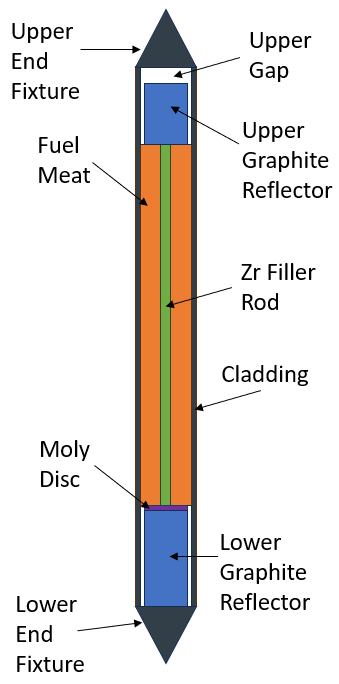
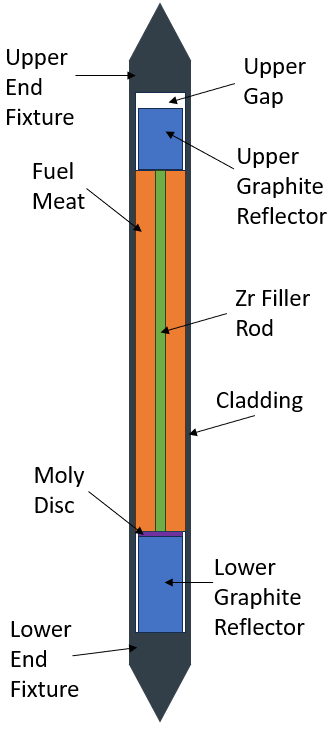
finished cleaning up the reactor definition

diff --git a/progression_problems/TRIGA/NETL/default_geometries.py b/progression_problems/TRIGA/NETL/default_geometries.py
@@ -1,5 +1,7 @@
 from __future__ import annotations
 
+from math import cos, radians, sin
+
 from coreforge.geometry_elements.triga.netl import (CentralThimble, SourceHolder, FuelFollowerControlRod,
                                                     TransientRod, GridPlate, BeamPort, Pool, RSRCavity,
                                                     Reflector, Shroud, Core, Reactor)
@@ -9,6 +11,8 @@ from progression_problems.TRIGA.default_materials import DefaultMaterials as TRI
 from progression_problems.TRIGA.NETL.default_materials import DefaultMaterials as NETLDefaultMaterials
 from progression_problems.constants import CM_PER_INCH
 
+sind = lambda d: sin(radians(d))
+cosd = lambda d: cos(radians(d))
 
 class DefaultGeometries:
     """ Dataclass containing default geometries for NETL reactor models
@@ -22,16 +26,16 @@ class DefaultGeometries:
            (NETL-FF-BP1/5-128-cca).", Nov. 2022. https://doi.org/10.2172/1898256
     """
 
-    UPPER_GRID_PLATE_DISTANCE_FROM_CORE_CENTERLINE = 12.75  * CM_PER_INCH  # Ref. [2]_ pg. 55
-    LOWER_GRID_PLATE_DISTANCE_FROM_CORE_CENTERLINE = 13.06 * CM_PER_INCH   # Ref. [2]_ pg. 55
-    TRANSIENT_ROD_FULLY_INSERTED_POSITION          = -73.0250              # Ref. [2]_ pg. 58
-    FFCR_FULLY_INSERTED_POSITION                   = -76.5180              # Ref. [2]_ pg. 58
-    TRANSIENT_ROD_MAX_WITHDRAWAL_DISTANCE          = 15.0  * CM_PER_INCH   # Ref. [1]_ pg. 4-10
-    FFCR_MAX_WITHDRAWAL_DISTANCE                   = 15.0  * CM_PER_INCH   # Ref. [1]_ pg. 4-10
-    TRANSIENT_ROD_FULLY_WITHDRAWN_POSITION         = TRANSIENT_ROD_FULLY_INSERTED_POSITION + \
-                                                     TRANSIENT_ROD_MAX_WITHDRAWAL_DISTANCE
-    FFCR_FULLY_WITHDRAWN_POSITION                  = FFCR_FULLY_INSERTED_POSITION + \
-                                                     FFCR_MAX_WITHDRAWAL_DISTANCE
+    UPPER_GRID_PLATE_TOP_TO_CORE_CENTERLINE_DISTANCE = 12.75  * CM_PER_INCH  # Ref. [2]_ pg. 55
+    LOWER_GRID_PLATE_TOP_TO_CORE_CENTERLINE_DISTANCE = 13.06 * CM_PER_INCH   # Ref. [2]_ pg. 55
+    TRANSIENT_ROD_FULLY_INSERTED_POSITION            = -73.0250              # Ref. [2]_ pg. 58
+    FFCR_FULLY_INSERTED_POSITION                     = -76.5180              # Ref. [2]_ pg. 58
+    TRANSIENT_ROD_MAX_WITHDRAWAL_DISTANCE            = 15.0  * CM_PER_INCH   # Ref. [1]_ pg. 4-10
+    FFCR_MAX_WITHDRAWAL_DISTANCE                     = 15.0  * CM_PER_INCH   # Ref. [1]_ pg. 4-10
+    TRANSIENT_ROD_FULLY_WITHDRAWN_POSITION           = TRANSIENT_ROD_FULLY_INSERTED_POSITION + \
+                                                       TRANSIENT_ROD_MAX_WITHDRAWAL_DISTANCE
+    FFCR_FULLY_WITHDRAWN_POSITION                    = FFCR_FULLY_INSERTED_POSITION + \
+                                                       FFCR_MAX_WITHDRAWAL_DISTANCE
 
     @staticmethod
     def central_thimble() -> CentralThimble:
@@ -67,15 +71,12 @@ class DefaultGeometries:
         SourceHolder
             Default NETL TRIGA source holder.
         """
-        upper_plate = DefaultGeometries.upper_grid_plate()
 
-        # Use published grid offsets directly to avoid recursive calls into reactor/core builders
-        upper_grid_plate_distance  = DefaultGeometries.UPPER_GRID_PLATE_DISTANCE_FROM_CORE_CENTERLINE
-        lower_grid_plate_distance  = DefaultGeometries.LOWER_GRID_PLATE_DISTANCE_FROM_CORE_CENTERLINE
+        upper_grid_plate_distance  = DefaultGeometries.UPPER_GRID_PLATE_TOP_TO_CORE_CENTERLINE_DISTANCE
+        lower_grid_plate_distance  = DefaultGeometries.LOWER_GRID_PLATE_TOP_TO_CORE_CENTERLINE_DISTANCE
         distance_from_lower_plate  = 1.1934  # Ref. [2]_ pg. 55
 
-        length = (upper_grid_plate_distance + lower_grid_plate_distance -
-                  distance_from_lower_plate + upper_plate.thickness)
+        length = (upper_grid_plate_distance + lower_grid_plate_distance - distance_from_lower_plate)
 
         # Set such that the cavity center is at core centerline Ref. [2]_ pg. 55
         axial_offset = -distance_from_lower_plate
@@ -323,7 +324,6 @@ class DefaultGeometries:
         """
         return Shroud(
             thickness                = 0.1875 * CM_PER_INCH,                      # Ref. [2]_ pg. 54 & 55
-            height                   = 23.13 * CM_PER_INCH,                       # Ref. [2]_ pg. 55
             primary_hex_inner_radius = 10.21875 * CM_PER_INCH,                    # Ref. [2]_ pg. 55
             rotated_hex_inner_radius = 10.75 * CM_PER_INCH,                       # Ref. [2]_ pg. 54
             material                 = Material(NETLDefaultMaterials.aluminum()), # Ref. [2]_ pg. 48
@@ -374,7 +374,7 @@ class DefaultGeometries:
         return BeamPort(
             length        = DefaultGeometries.pool().radius * 2.0,
             inner_radius  = 6.065 * 0.5 * CM_PER_INCH,                  # Ref. [2]_ Figures 4 & 5
-            outer_radius  = 6.625 * CM_PER_INCH,                        # Ref. [2]_ Figures 4 & 5
+            outer_radius  = 6.625 * 0.5 * CM_PER_INCH,                  # Ref. [2]_ Figures 4 & 5
             tube_material = Material(NETLDefaultMaterials.aluminum()),  # Ref. [2]_ pg. 48
             fill_material = Material(NETLDefaultMaterials.air()),       # Ref. [2]_ pg. 48
             name = "beam_port",
@@ -452,55 +452,53 @@ class DefaultGeometries:
         Reactor
             Default NETL TRIGA reactor geometry.
         """
+
+        bp_length       = DefaultGeometries.beam_port().length
+        bp_axial_offset = -6.985
+
         return Reactor(
+            name                        = "reactor",
             pool                        = DefaultGeometries.pool(),
             shroud                      = DefaultGeometries.shroud(),
             rotary_specimen_rack_cavity = DefaultGeometries.rsr_cavity(),
             core                        = DefaultGeometries.core(),
-            name                        = "reactor",
-            reflector = Reactor.Reflector(
-                geometry = DefaultGeometries.reflector(),
-                core_centerline_offset = 0.565 * CM_PER_INCH  # Ref. [2]_ pg. 55
-            ),
+            transient_rod_position      = DefaultGeometries.TRANSIENT_ROD_FULLY_INSERTED_POSITION,
+            regulating_rod_position     = DefaultGeometries.FFCR_FULLY_INSERTED_POSITION,
+            shim_1_rod_position         = DefaultGeometries.FFCR_FULLY_INSERTED_POSITION,
+            shim_2_rod_position         = DefaultGeometries.FFCR_FULLY_INSERTED_POSITION,
+
+            # Beam port specifications from Ref. [1]_ page 4-24 & Ref. [2]_ pages 48, 56, 59
+            beam_port_1_5               = Reactor.BeamPort(geometry    = DefaultGeometries.beam_port(),
+                                                           rotation    = 90.0,
+                                                           translation = (35.2425,
+                                                                          0.0,
+                                                                          bp_axial_offset)),
+            beam_port_2                 = Reactor.BeamPort(geometry    = DefaultGeometries.beam_port(),
+                                                           rotation    = 150.0,
+                                                           translation = ( 6.222 + cosd(150.0)*bp_length*0.5,
+                                                                          35.255 + sind(150.0)*bp_length*0.5,
+                                                                          bp_axial_offset)),
+            beam_port_3                 = Reactor.BeamPort(geometry    = DefaultGeometries.beam_port(),
+                                                           rotation    = 0.0,
+                                                           translation = (-bp_length*0.5 - 26.43188,
+                                                                          0.0,
+                                                                          bp_axial_offset)),
+            beam_port_4                 = Reactor.BeamPort(geometry    = DefaultGeometries.beam_port(),
+                                                           rotation    = 60.0,
+                                                           translation = (-13.216 - cosd(60.0)*bp_length*0.5,
+                                                                          -22.871 - sind(60.0)*bp_length*0.5,
+                                                                          bp_axial_offset)),
+
+            reflector = Reactor.Reflector(geometry = DefaultGeometries.reflector(),
+                                          core_centerline_offset = 0.565 * CM_PER_INCH),  # Ref. [2]_ pg. 55
+
             upper_grid_plate = Reactor.GridPlate(
                 geometry = DefaultGeometries.upper_grid_plate(),
-                distance_from_core_centerline = DefaultGeometries.UPPER_GRID_PLATE_DISTANCE_FROM_CORE_CENTERLINE
+                top_to_core_centerline_distance = DefaultGeometries.UPPER_GRID_PLATE_TOP_TO_CORE_CENTERLINE_DISTANCE
             ),
+
             lower_grid_plate = Reactor.GridPlate(
                 geometry = DefaultGeometries.lower_grid_plate(),
-                distance_from_core_centerline = DefaultGeometries.LOWER_GRID_PLATE_DISTANCE_FROM_CORE_CENTERLINE
-            ),
-            transient_rod_position = DefaultGeometries.TRANSIENT_ROD_FULLY_INSERTED_POSITION,
-            regulating_rod_position = DefaultGeometries.FFCR_FULLY_INSERTED_POSITION,
-            shim_1_rod_position = DefaultGeometries.FFCR_FULLY_INSERTED_POSITION,
-            shim_2_rod_position = DefaultGeometries.FFCR_FULLY_INSERTED_POSITION,
-            # Beam port 1/5 specifications from Ref. [2]_ pages 48, 56, 59
-            beam_port_1_5 = Reactor.BeamPort(
-                geometry    = DefaultGeometries.beam_port(),
-                translation = (35.2425, 0.0, -6.985),
-            ),
-            # Beam port 2 specifications from Ref. [2]_ pages 48, 56, 59
-            beam_port_2 = Reactor.BeamPort(
-                geometry    = DefaultGeometries.beam_port(),
-                rotation    = ((150.0,  60.0, 90.0),
-                               (120.0, 150.0, 90.0),
-                               ( 90.0,  90.0,  0.0)),
-                translation = (-18.399365255524088, 77.9004555727542, -6.985),
-            ),
-            # Beam port 3 specifications from Ref. [2]_ pages 48, 56, 59
-            beam_port_3 = Reactor.BeamPort(
-                geometry    = DefaultGeometries.beam_port(),
-                rotation    = (( 90.0, 180.0, 90.0),
-                               (  0.0,  90.0, 90.0),
-                               ( 90.0,  90.0,  0.0)),
-                translation = (-116.43188, 0.0, -6.985),
-            ),
-            # Beam port 4 specifications from Ref. [2]_ pages 48, 56, 59
-            beam_port_4 = Reactor.BeamPort(
-                geometry    = DefaultGeometries.beam_port(),
-                rotation    = (( 75.0,  60.0, 90.0),
-                               (120.0,  75.0, 90.0),
-                               ( 90.0,  90.0,  0.0)),
-                translation = (-69.63559769456143, -6.33393280074954, -6.985),
+                top_to_core_centerline_distance = DefaultGeometries.LOWER_GRID_PLATE_TOP_TO_CORE_CENTERLINE_DISTANCE
             ),
         )

diff --git a/progression_problems/TRIGA/NETL/problem_4_utils.py b/progression_problems/TRIGA/NETL/problem_4_utils.py
@@ -17,9 +17,9 @@ from progression_problems.TRIGA.NETL.utils import build_generic_openmc_tallies, 
 
 reactor                                        = NETL_DefaultGeometries.reactor()
 UPPER_GRID_PLATE                               = reactor.upper_grid_plate
-UPPER_GRID_PLATE_DISTANCE_FROM_CORE_CENTERLINE = UPPER_GRID_PLATE.distance_from_core_centerline
+UPPER_GRID_PLATE_DISTANCE_FROM_CORE_CENTERLINE = UPPER_GRID_PLATE.top_to_core_centerline_distance
 LOWER_GRID_PLATE                               = reactor.lower_grid_plate
-LOWER_GRID_PLATE_DISTANCE_FROM_CORE_CENTERLINE = LOWER_GRID_PLATE.distance_from_core_centerline
+LOWER_GRID_PLATE_DISTANCE_FROM_CORE_CENTERLINE = LOWER_GRID_PLATE.top_to_core_centerline_distance
 POOL_HEIGHT                                    = NETL_DefaultGeometries.pool().height
 
 
@@ -51,6 +51,7 @@ def build_coolant_element(coolant: openmc.Material) -> FuelElement:
                                     material = Material(coolant))
 
     upper_end_fitting = FuelElement.EndFitting(length    = filler.upper_end_fitting.length,
+                                               r2        = filler.upper_end_fitting.r2,
                                                direction = filler.upper_end_fitting.direction,
                                                material  = Material(coolant))
 
@@ -67,6 +68,7 @@ def build_coolant_element(coolant: openmc.Material) -> FuelElement:
                                                              material  = Material(coolant))
 
     lower_end_fitting = FuelElement.EndFitting(length    = filler.lower_end_fitting.length,
+                                               r2        = filler.lower_end_fitting.r2,
                                                direction = filler.lower_end_fitting.direction,
                                                material  = Material(coolant))
 

diff --git a/progression_problems/TRIGA/default_geometries.py b/progression_problems/TRIGA/default_geometries.py
@@ -36,6 +36,7 @@ class DefaultGeometries:
 
         upper_end_fitting = FuelElement.EndFitting(
             length    = 7.3552,                                         # Ref. [2]_ pg. 55 (cone approx.)
+            r2        = 0.25,                                           # Ref. [2]_ pg. 55 (slope^2)
             direction = 'up',
             material  = Material(DefaultMaterials.stainless_steel())    # Ref. [2]_ pg. 51
         )
@@ -76,6 +77,7 @@ class DefaultGeometries:
 
         lower_end_fitting = FuelElement.EndFitting(
             length    = 7.6209,                                         # Ref. [2]_ pg. 55-56 (cone approx.)
+            r2        = 0.25,                                           # Ref. [2]_ pg. 55 (slope^2)
             direction = 'down',
             material  = Material(DefaultMaterials.stainless_steel())    # Ref. [2]_ pg. 51
         )
@@ -118,12 +120,14 @@ class DefaultGeometries:
 
         upper_end_fitting = GraphiteElement.EndFitting(
             length    =  fuel_element.upper_end_fitting.length,          # Ref. [1]_ Section 4.2.3.b
+            r2        =  0.25,                                           # Ref. [2]_ pg. 55 (slope^2)
             direction = 'up',
             material  = Material(DefaultMaterials.aluminum()),           # Ref. [2]_ pg. 50
         )
 
         lower_end_fitting = GraphiteElement.EndFitting(
             length    =  fuel_element.lower_end_fitting.length,          # Ref. [1]_ Section 4.2.3.b
+            r2        =  0.25,                                           # Ref. [2]_ pg. 55 (slope^2)
             direction = 'down',
             material  = Material(DefaultMaterials.aluminum()),           # Ref. [2]_ pg. 50
         )

diff --git a/docs/source/progression_problems/TRIGA/NETL/system_specifications.rst b/docs/source/progression_problems/TRIGA/NETL/system_specifications.rst
@@ -370,8 +370,8 @@ General geometric specifications relevant to the NETL TRIGA progression problems
    |               | Control Rod Penetration   | 1.505              | Ref. 2_, Sec. 4.2.4.a|
    |               | Diameter (in.)            |                    |                      |
    |               +---------------------------+--------------------+----------------------+
-   |               | Distance from Core        | 12.75              | Ref. 3_, pg. 55      |
-   |               | Axial Centerline (in.)    |                    |                      |
+   |               | Top to Core Axial         | 12.75              | Ref. 3_, pg. 55      |
+   |               | Centerline Distance (in.) |                    |                      |
    |               +---------------------------+--------------------+----------------------+
    |               | Material                  | Aluminum           | Ref. 3_, pg. 50      |
    +---------------+---------------------------+--------------------+----------------------+
@@ -383,8 +383,8 @@ General geometric specifications relevant to the NETL TRIGA progression problems
    |               | Control Rod Penetration   | 1.505              | Ref. 2_, Sec. 4.2.4.b|
    |               | Diameter (in.)            |                    |                      |
    |               +---------------------------+--------------------+----------------------+
-   |               | Distance from Core        | 13.06              | Ref. 3_, pg. 55      |
-   |               | Axial Centerline (in.)    |                    |                      |
+   |               | Top to Core Axial         | 13.06              | Ref. 3_, pg. 55      |
+   |               | Centerline Distance (in.) |                    |                      |
    |               +---------------------------+--------------------+----------------------+
    |               | Material                  | Aluminum           | Ref. 3_, pg. 50      |
    +---------------+---------------------------+--------------------+----------------------+
@@ -485,7 +485,7 @@ provides a neutron beam with a harder spectrum due to direct line-of-sight to th
 
 General geometric specifications relevant to the NETL TRIGA progression problems are summarized in
 :numref:`table-beam-ports`.  Translations and rotations of the beam ports are provided with respect to the core
-orientation shown in :numref:`figure-core-diagram`, with alignment with the Y-axis denoting no rotation.
+orientation shown in :numref:`figure-core-diagram`, with alignment with the X-axis denoting no rotation.
 Translations and rotations are provided in the manner consistent with MCNP transformations, with rotations being
 applied first and translations second.
 
@@ -506,42 +506,29 @@ applied first and translations second.
    |               +-----------------------+--------------------+-------------------------+
    |               | Fill Material         | Air                | Ref. 3_, pg. 48         |
    +---------------+-----------------------+--------------------+-------------------------+
-   | Beam Port 1   | Rotation Matrix       | None               | Ref. 3_, pg. 48, 56     |
-   |               | (degrees)             |                    |                         |
+   | Beam Port 1   | Rotation              | 90.0               | Ref. 2_, pg. 4-24       |
+   |               | (degrees)             |                    | Ref. 3_, pg. 48, 56     |
    |               +-----------------------+--------------------+-------------------------+
-   |               | Radial Translation    | (35.2425, 0.0)     | Ref. 3_, pg. 48, 56     |
-   |               | Vector (cm)           |                    |                         |
+   |               | Center of Tube Length | (35.2425, 0.0)     | Ref. 3_, pg. 48, 56, 59 |
+   |               | X-Y Coordinates (cm)  |                    |                         |
    +---------------+-----------------------+--------------------+-------------------------+
-   | Beam Port 2   | Rotation Matrix       | 150  60  90        | Ref. 3_, pg. 48, 56, 59 |
-   |               | (degrees)             | 120 150  90        |                         |
-   |               |                       | 90  90   0         |                         |
+   | Beam Port 2   | Rotation              |  150.0             | Ref. 2_, pg. 4-24       |
+   |               | (degrees)             |                    | Ref. 3_, pg. 48, 56     |
    |               +-----------------------+--------------------+-------------------------+
-   |               | Radial Translation    | (6.222, 35.255)    | Ref. 3_, pg. 48, 56, 59 |
-   |               | Vector (cm)           |                    |                         |
-   |               +-----------------------+--------------------+-------------------------+
-   |               | Termination X-Plane   | x0 = -12.621       | Ref. 3_, pg. 48, 56, 59 |
-   |               +-----------------------+--------------------+-------------------------+
-   |               | Termination X-Plane   | 20 125  90         | Ref. 3_, pg. 48, 56, 59 |
-   |               | Rotation Matrix       | 100  20  90        |                         |
-   |               | (degrees)             | 90  90   0         |                         |
+   |               | Center of Tip         | (6.222, 35.255)    | Ref. 3_, pg. 48, 56, 59 |
+   |               | X-Y Coordinates (cm)  |                    |                         |
    +---------------+-----------------------+--------------------+-------------------------+
-   | Beam Port 3   | Rotation Matrix       | 90 180  90         | Ref. 3_, pg. 48, 56     |
-   |               | (degrees)             | 0  90  90          |                         |
-   |               |                       | 90  90   0         |                         |
+   | Beam Port 3   | Rotation              |  0.0               | Ref. 2_, pg. 4-24       |
+   |               | (degrees)             |                    | Ref. 3_, pg. 48, 56     |
    |               +-----------------------+--------------------+-------------------------+
-   |               | Radial Translation    | None               | Ref. 3_, pg. 48, 56     |
-   |               | Vector (cm)           |                    |                         |
-   |               +-----------------------+--------------------+-------------------------+
-   |               | Terminates at         | Shroud Outer Wall  | Ref. 3_, pg. 48, 56, 59 |
+   |               | Center of Tip         | (-26.43188, 0.0)   | Ref. 3_, pg. 48, 56, 59 |
+   |               | X-Y Coordinates (cm)  |                    |                         |
    +---------------+-----------------------+--------------------+-------------------------+
-   | Beam Port 4   | Rotation Matrix       | 75  60  90         | Ref. 3_, pg. 48, 56, 59 |
-   |               | (degrees)             | 120  75  90        |                         |
-   |               |                       | 90  90   0         |                         |
+   | Beam Port 4   | Rotation              |  60.0              | Ref. 2_, pg. 4-24       |
+   |               | (degrees)             |                    | Ref. 3_, pg. 48, 56     |
    |               +-----------------------+--------------------+-------------------------+
-   |               | Radial Translation    | (-13.216, 22.871)  | Ref. 3_, pg. 48, 56, 59 |
-   |               | Vector (cm)           |                    |                         |
-   |               +-----------------------+--------------------+-------------------------+
-   |               | Terminates at         | Shroud Outer Wall  | Ref. 3_, pg. 48, 56, 59 |
+   |               | Center of Tip         | (-13.216,-22.871)  | Ref. 3_, pg. 48, 56, 59 |
+   |               | X-Y Coordinates (cm)  |                    |                         |
    +---------------+-----------------------+--------------------+-------------------------+
 
 

diff --git a/docs/source/progression_problems/TRIGA/system_specifications.rst b/docs/source/progression_problems/TRIGA/system_specifications.rst
@@ -30,8 +30,9 @@ also provides a conduit for thermocouple lead wires.
 Three distinct end fixture designs have been fabricated—referred to as original, integral, and streamlined—as illustrated in
 :numref:`figure-fuel-elements`. For the sake of simplicity, these end fittings are typically approximated using a conical geometry.
 As such, an conical equivalent estimate is provided for this specification assuming a cone with a base-radius equal to the cladding
-outer-radius. General geometric specifications relevant to the TRIGA progression problems are summarized in :numref:`table-fuel-element`,
-and the axial configuration of the fuel element is depicted in :numref:`figure-fuel-element-axial_profile`.
+outer-radius and a cone slope squared of ``r2 = 0.25``, with the remaining length of the end-fixture treated as a solid cylinder.
+General geometric specifications relevant to the TRIGA progression problems are summarized in :numref:`table-fuel-element`, and the
+axial configuration of the fuel element is depicted in :numref:`figure-fuel-element-axial_profile`.
 
 .. _figure-fuel-elements:
 
@@ -90,6 +91,8 @@ and the axial configuration of the fuel element is depicted in :numref:`figure-f
    |               | Lower Fitting Equivalent Cone  | 7.6209           | Ref. 2_, pg 55-56  |
    |               | Approximation Length (cm)      |                  |                    |
    |               +--------------------------------+------------------+--------------------+
+   |               | Cone Slope Squared (r2)        | 0.25 (unitless)  | Ref. 2_, pg. 55    |
+   |               +--------------------------------+------------------+--------------------+
    |               | Material                       | Stainless-Steel  | Ref. 1_, Table 4.1 |
    +---------------+--------------------------------+------------------+--------------------+
 
@@ -137,6 +140,8 @@ General geometric specifications relevant to the TRIGA progression problems are 
    |               +--------------------------------+-----------------------------------------+----------------------------+
    |               | Lower Fitting Equivalent Cone  | Fuel Element Lower End Fitting          | Ref. 1_ Section 4.2.3.b    |
    |               | Approximation Length           | Cone Approximation Length               |                            |
+   |               +--------------------------------+-----------------------------------------+----------------------------+
+   |               | Cone Slope Squared (r2)        | 0.25 (unitless)                         | Ref. 2_, pg. 55            |
    |               +--------------------------------+-----------------------------------------+----------------------------+
    |               | Material                       | Aluminum                                | Ref. 2_, pg. 50            |
    +---------------+--------------------------------+-----------------------------------------+----------------------------+
